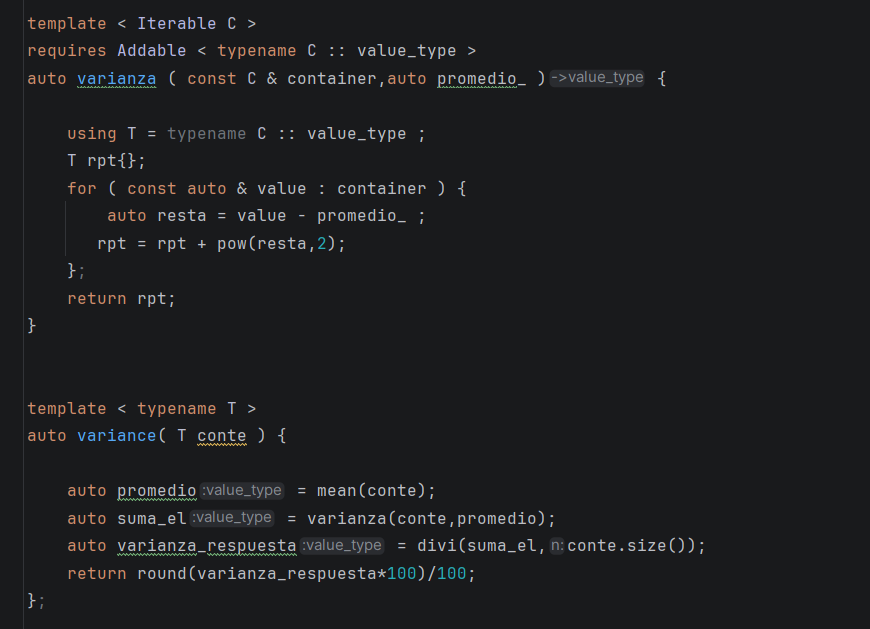
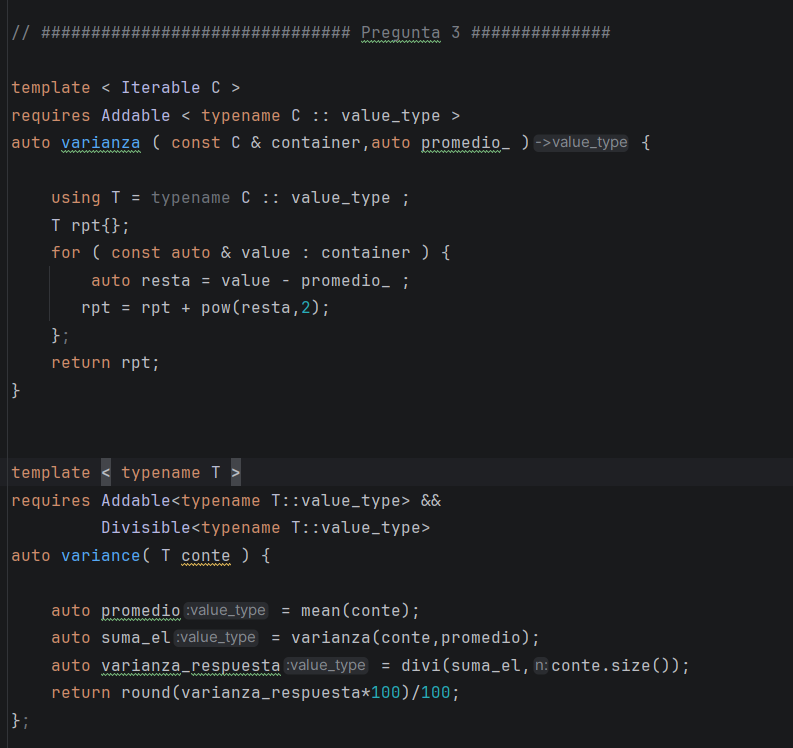
mian ya compeltado

diff --git a/main_git.cpp b/main_git.cpp
@@ -71,6 +71,8 @@ auto varianza ( const C & container,auto promedio_ ) {
 
 
 template < typename T >
+requires Addable<typename T::value_type> &&
+         Divisible<typename T::value_type>
 auto variance( T conte ) {
 
     auto promedio = mean(conte);
@@ -95,6 +97,7 @@ auto maximo ( const C & container ) {
 
 
 template < typename M >
+requires Comparable<typename M::value_type, typename M::value_type>
 auto max( M conte ) {
 
     auto maximo_ = maximo(conte);

diff --git a/test_3.cpp b/test_3.cpp
@@ -71,6 +71,8 @@ auto varianza ( const C & container,auto promedio_ ) {
 
 
 template < typename T >
+requires Addable<typename T::value_type> &&
+         Divisible<typename T::value_type>
 auto variance( T conte ) {
 
     auto promedio = mean(conte);

diff --git a/test_2.cpp b/test_2.cpp
@@ -57,7 +57,7 @@ auto mean(C contenedor) {
 
 int main() {
 
-    cout << "\n==== CASOS QUE NO COMPILAN ====\n";
+    cout << "==== CASOS QUE NO COMPILAN ====\n";
 
     vector<string> s1{"a","b","c"};
     mean(s1);

diff --git a/test_4.cpp b/test_4.cpp
@@ -40,6 +40,7 @@ auto maximo ( const C & container ) {
 
 
 template < typename M >
+requires Comparable<typename M::value_type, typename M::value_type>
 auto max( M conte ) {
 
     auto maximo_ = maximo(conte);

diff --git a/README.md b/README.md
@@ -30,4 +30,19 @@
 
 ### Lo primero, Creamos una función varianza, que es similar a sum, solo que  ahora vamos a recibir el contenedor y el promedio, para que cada valor del contendor se reste con el promedio, y luego lo acumulamos o sumamos para poder caular el primer paso de la varianza.
 
-### Ya en la función variance, calculamos el promedio del contenedor recibido, y luego lo mandamos a varianza para calcular la suma de las potencias cuadradas de la resta con el promedio. Finalmente reutilizo el divi, osea la división entre el tamaño del vector, para calculart la varianza final.
+### Ya en la función variance, calculamos el promedio del contenedor recibido, y luego lo mandamos a varianza para calcular la suma de las potencias cuadradas de la resta con el promedio. Finalmente reutilizo el divi, osea la división entre el tamaño del vector, para calculart la varianza final. Por ver mejor el resultado lo redondeamos a dos decimales.
+
+![alt text](image-6.png)
+
+![alt text](image-7.png)
+
+### Prueba en caso que si funcionan...
+
+![alt text](image-8.png)
+
+### Casos en lo que no funciona.}
+
+## 4. Max (Hallar el maximo de el contenedor)
+![alt text](image-9.png)
+
+### 
